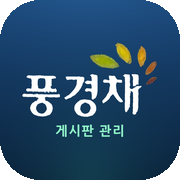
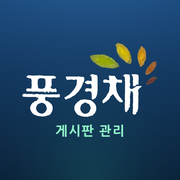
iOS 홈 화면 아이콘을 꽉 찬 정사각(투명 모서리 제거)으로 + 아이콘 버전 20261128b

diff --git a/index.html b/index.html
@@ -7,11 +7,11 @@
 <meta name="robots" content="noindex, nofollow">
 <meta name="description" content="풍경채 그랑퍼스트 게시판 관리 — 게시·제거 체크와 기한관리">
 <!-- 앱 아이콘 · 홈 화면 바로가기 — 아이콘 원본은 scripts/make_brand_assets.py (제일풍경채 로고 스캔) -->
-<link rel="icon" href="icons/icon.svg?v=20261128a" type="image/svg+xml">
-<link rel="icon" href="icons/favicon-32.png?v=20261128a" sizes="32x32" type="image/png">
-<link rel="icon" href="icons/favicon-16.png?v=20261128a" sizes="16x16" type="image/png">
-<link rel="apple-touch-icon" sizes="180x180" href="icons/apple-touch-icon-180.png?v=20261128a">
-<link rel="manifest" href="manifest.json?v=20261128a">
+<link rel="icon" href="icons/icon.svg?v=20261128b" type="image/svg+xml">
+<link rel="icon" href="icons/favicon-32.png?v=20261128b" sizes="32x32" type="image/png">
+<link rel="icon" href="icons/favicon-16.png?v=20261128b" sizes="16x16" type="image/png">
+<link rel="apple-touch-icon" sizes="180x180" href="icons/apple-touch-icon-180.png?v=20261128b">
+<link rel="manifest" href="manifest.json?v=20261128b">
 <title>게시판 관리 시스템 · 풍경채 그랑퍼스트</title>
 <style>
 :root{
@@ -1347,7 +1347,7 @@ html.fs-lg .q{min-height:88px;}
   <div class="topbar-in">
     <button class="homebtn" id="homeBtn" data-act="home" aria-label="홈으로" hidden>‹</button>
     <div class="brand" id="brand" aria-label="풍경채 그랑퍼스트">
-      <img class="mk" src="icons/logo-wordmark-white.png?v=20261128a" alt="제일풍경채" width="201" height="112">
+      <img class="mk" src="icons/logo-wordmark-white.png?v=20261128b" alt="제일풍경채" width="201" height="112">
       <span class="brd" aria-hidden="true"></span>
       <div class="bd">
         <div class="bd-t">게시판 관리</div>
@@ -1440,7 +1440,7 @@ html.fs-lg .q{min-height:88px;}
 <script>window.__errs=[];window.addEventListener('error',function(e){window.__errs.push(String(e.message||e))});window.addEventListener('unhandledrejection',function(e){window.__errs.push('promise:'+String((e.reason&&e.reason.message)||e.reason))});</script>
 <script src="https://www.gstatic.com/firebasejs/10.12.5/firebase-app-compat.js"></script>
 <script src="https://www.gstatic.com/firebasejs/10.12.5/firebase-database-compat.js"></script>
-<script src="app.js?v=20261128a"></script>
+<script src="app.js?v=20261128b"></script>
 <script>/* PWA 단독 앱 실행 — 서비스 워커 등록 (2026-11-27) · 캐시 없이 항상 최신 파일 */
 if ("serviceWorker" in navigator) {
   window.addEventListener("load", function () {

diff --git a/sandbox/index.html b/sandbox/index.html
@@ -8,10 +8,10 @@
 <meta name="robots" content="noindex, nofollow">
 <meta name="description" content="풍경채 그랑퍼스트 게시판 관리 — 게시·제거 체크와 기한관리">
 <!-- 앱 아이콘 · 홈 화면 바로가기 — 아이콘 원본은 scripts/make_brand_assets.py (제일풍경채 로고 스캔) -->
-<link rel="icon" href="icons/icon.svg?v=20261128a" type="image/svg+xml">
-<link rel="icon" href="icons/favicon-32.png?v=20261128a" sizes="32x32" type="image/png">
-<link rel="icon" href="icons/favicon-16.png?v=20261128a" sizes="16x16" type="image/png">
-<link rel="apple-touch-icon" sizes="180x180" href="icons/apple-touch-icon-180.png?v=20261128a">
+<link rel="icon" href="icons/icon.svg?v=20261128b" type="image/svg+xml">
+<link rel="icon" href="icons/favicon-32.png?v=20261128b" sizes="32x32" type="image/png">
+<link rel="icon" href="icons/favicon-16.png?v=20261128b" sizes="16x16" type="image/png">
+<link rel="apple-touch-icon" sizes="180x180" href="icons/apple-touch-icon-180.png?v=20261128b">
 <link rel="manifest" href="sandbox/manifest.json">
 <title>🧪 테스트용 (카피본) · 게시판 관리 시스템 · 풍경채 그랑퍼스트</title>
 <style>
@@ -1357,7 +1357,7 @@ html.fs-lg .q{min-height:88px;}
   <div class="topbar-in">
     <button class="homebtn" id="homeBtn" data-act="home" aria-label="홈으로" hidden>‹</button>
     <div class="brand" id="brand" aria-label="풍경채 그랑퍼스트">
-      <img class="mk" src="icons/logo-wordmark-white.png?v=20261128a" alt="제일풍경채" width="201" height="112">
+      <img class="mk" src="icons/logo-wordmark-white.png?v=20261128b" alt="제일풍경채" width="201" height="112">
       <span class="brd" aria-hidden="true"></span>
       <div class="bd">
         <div class="bd-t">게시판 관리</div>
@@ -1452,7 +1452,7 @@ html.fs-lg .q{min-height:88px;}
 <script src="https://www.gstatic.com/firebasejs/10.12.5/firebase-app-compat.js"></script>
 <script src="https://www.gstatic.com/firebasejs/10.12.5/firebase-database-compat.js"></script>
 <script src="sandbox/env.js"></script>
-<script src="app.js?v=20261128a"></script>
+<script src="app.js?v=20261128b"></script>
 <script>/* PWA 단독 앱 실행 — 서비스 워커 등록 (2026-11-27) · 캐시 없이 항상 최신 파일 */
 if ("serviceWorker" in navigator) {
   window.addEventListener("load", function () {

diff --git a/sw.js b/sw.js
@@ -4,7 +4,7 @@
    원칙: 캐시를 만들지 않는 패스스루 — 항상 네트워크의 최신 app.js/index.html 을 쓴다.
         skipWaiting() + clients.claim() 으로 구버전 워커가 화면을 붙잡지 않게 한다.
    ========================================================= */
-const VERSION = "20261128a";   /* 파일이 바뀔 때마다 올린다 — 워커 갱신 신호 */
+const VERSION = "20261128b";   /* 파일이 바뀔 때마다 올린다 — 워커 갱신 신호 */
 self.addEventListener("install", function () {
   self.skipWaiting();
 });

diff --git a/scripts/make_brand_assets.py b/scripts/make_brand_assets.py
@@ -98,7 +98,7 @@ def draw_tracked(draw, cx, cy, text, fnt, fill, track=0):
         x += draw.textlength(ch, font=fnt) + track
 
 
-def compose_icon(wordmark, n, maskable=False, sub=True):
+def compose_icon(wordmark, n, maskable=False, sub=True, square=False):
     """n×n 아이콘. maskable 이면 안전영역(지름 80%) 안에 내용을 줄여 넣는다."""
     S = n * SS
     base = gradient_bg(S)
@@ -120,7 +120,7 @@ def compose_icon(wordmark, n, maskable=False, sub=True):
         draw_tracked(draw, S / 2, top + wm_h + gap + sub_h / 2, SUB_TEXT, sub_f, MINT, track)
 
     icon = base.resize((n, n), Image.LANCZOS).convert("RGBA")
-    if not maskable:
+    if not maskable and not square:
         icon.putalpha(rounded_mask(n))
     return icon
 
@@ -203,7 +203,7 @@ def main(check=False):
     files["icon-512.png"] = icon512
     files["icon-192.png"] = compose_icon(white, 192)
     files["icon-maskable-512.png"] = compose_icon(white, 512, maskable=True)
-    files["apple-touch-icon-180.png"] = compose_icon(white, 180)
+    files["apple-touch-icon-180.png"] = compose_icon(white, 180, square=True)   # iOS는 투명 모서리를 검게 칠한다 → 꽉 찬 정사각
     files["favicon-32.png"] = favicon_glyph(color, 32)
     files["favicon-16.png"] = favicon_glyph(color, 16)
 
